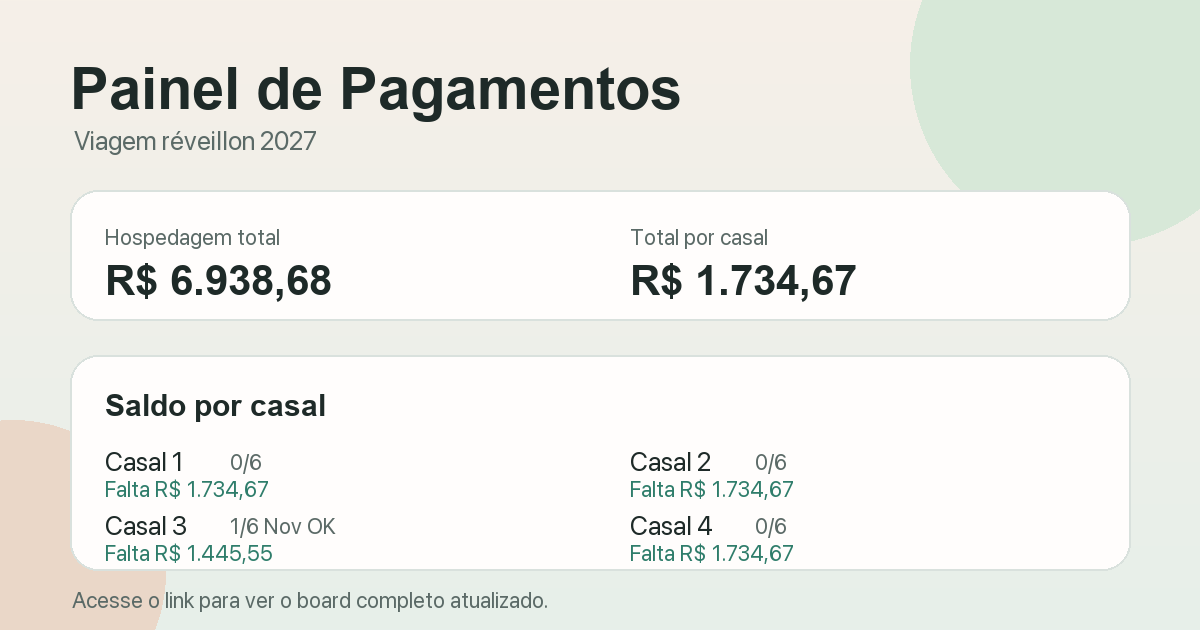
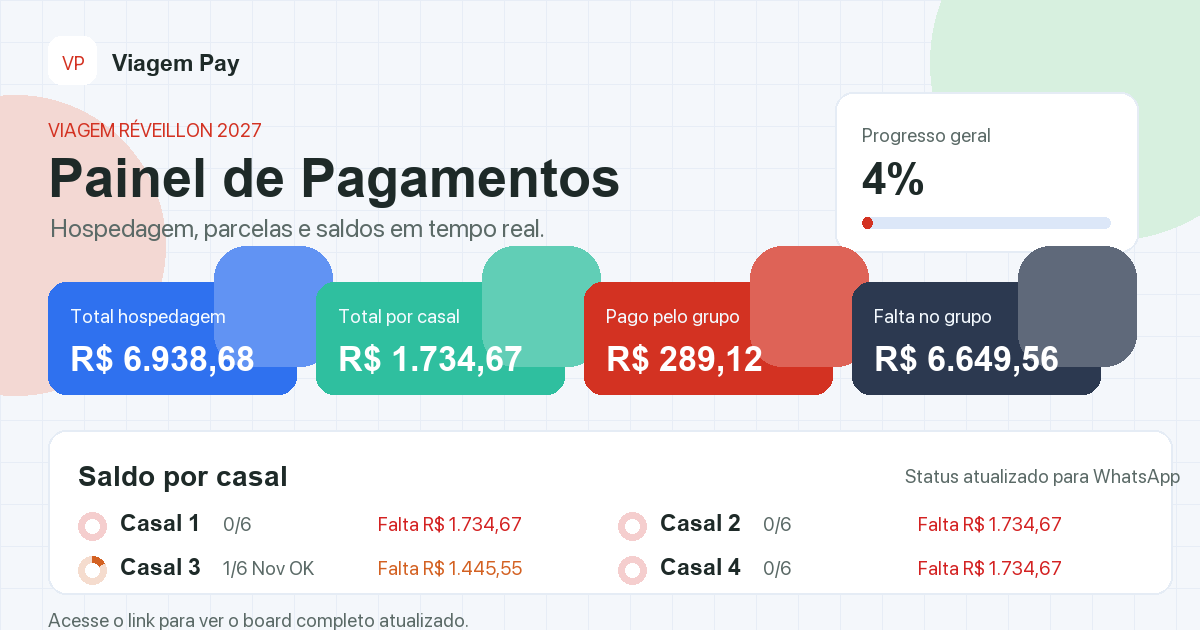
Modernize WhatsApp preview

diff --git a/site/index.html b/site/index.html
@@ -9,7 +9,7 @@
     <meta property="og:url" content="https://nogueirathiago.github.io/viagem-pagamentos/">
     <meta property="og:title" content="Painel de Pagamentos da Viagem">
     <meta property="og:description" content="Status atualizado das parcelas e saldo por casal.">
-    <meta property="og:image" content="https://nogueirathiago.github.io/viagem-pagamentos/preview.png">
+    <meta property="og:image" content="https://nogueirathiago.github.io/viagem-pagamentos/preview.png?v=20260510-modern">
     <meta property="og:image:width" content="1200">
     <meta property="og:image:height" content="630">
     <meta name="twitter:card" content="summary_large_image">

diff --git a/generate_panel.py b/generate_panel.py
@@ -33,6 +33,10 @@ ACCENT = "#2F7D6B"
 ACCENT_SOFT = "#DCEFEA"
 WARN = "#A86D3A"
 DIVIDER = "#D9E1DD"
+PREVIEW_BLUE = "#2F71EF"
+PREVIEW_MINT = "#2FBF9F"
+PREVIEW_DARK = "#2C3950"
+PREVIEW_RED = "#D93A35"
 
 DATE_FMT = "%d/%m/%Y"
 
@@ -252,6 +256,50 @@ def draw_progress_bar(draw: ImageDraw.ImageDraw, x: int, y: int, width: int, pro
         rounded_box(draw, (x, y, x + fill_width, y + 18), ACCENT, radius=9)
 
 
+def progress_color(progress: float) -> str:
+    progress = max(0.0, min(1.0, progress))
+    hue = progress * 128
+    chroma = 0.72
+    light = 0.48
+    return hsl_to_hex(hue, chroma, light)
+
+
+def hsl_to_hex(hue: float, saturation: float, lightness: float) -> str:
+    chroma = (1 - abs(2 * lightness - 1)) * saturation
+    x = chroma * (1 - abs((hue / 60) % 2 - 1))
+    if 0 <= hue < 60:
+        red, green, blue = chroma, x, 0
+    elif 60 <= hue < 120:
+        red, green, blue = x, chroma, 0
+    else:
+        red, green, blue = 0, chroma, x
+    m = lightness - chroma / 2
+    rgb = tuple(round((channel + m) * 255) for channel in (red, green, blue))
+    return "#" + "".join(f"{channel:02X}" for channel in rgb)
+
+
+def mix_hex(color: str, white_ratio: float) -> str:
+    rgb = tuple(int(color[i:i + 2], 16) for i in (1, 3, 5))
+    mixed = tuple(round(channel + (255 - channel) * white_ratio) for channel in rgb)
+    return "#" + "".join(f"{channel:02X}" for channel in mixed)
+
+
+def draw_preview_card(
+    draw: ImageDraw.ImageDraw,
+    xy: tuple[int, int, int, int],
+    label: str,
+    value: str,
+    color: str,
+    label_font: ImageFont.FreeTypeFont,
+    value_font: ImageFont.FreeTypeFont,
+) -> None:
+    rounded_box(draw, xy, color, radius=18)
+    x1, y1, x2, _ = xy
+    draw.rounded_rectangle((x2 - 82, y1 - 36, x2 + 36, y1 + 84), radius=32, fill=mix_hex(color, 0.24))
+    draw.text((x1 + 22, y1 + 22), label, font=label_font, fill="#F4FAFF")
+    draw.text((x1 + 22, y1 + 58), value, font=value_font, fill="#FFFFFF")
+
+
 def render_image(data: dict, couples: list[Couple], total_amount: Decimal) -> None:
     OUTPUT_DIR.mkdir(parents=True, exist_ok=True)
     image = create_gradient_background(CANVAS_WIDTH, CANVAS_HEIGHT)
@@ -347,42 +395,74 @@ def render_image(data: dict, couples: list[Couple], total_amount: Decimal) -> No
 
 def render_social_preview(data: dict, couples: list[Couple], total_amount: Decimal) -> None:
     SITE_DIR.mkdir(parents=True, exist_ok=True)
-    image = create_gradient_background(PREVIEW_WIDTH, PREVIEW_HEIGHT)
+    image = Image.new("RGB", (PREVIEW_WIDTH, PREVIEW_HEIGHT), "#F4F7FB")
     draw = ImageDraw.Draw(image)
 
-    title_font = load_font(58, bold=True)
-    section_font = load_font(30, bold=True)
-    body_font = load_font(26)
-    small_font = load_font(22)
-    amount_font = load_font(42, bold=True)
-
-    draw.ellipse((910, -115, 1270, 245), fill="#D7E8D8")
-    draw.ellipse((-140, 420, 165, 725), fill="#EAD7C8")
-
-    draw.text((70, 56), "Painel de Pagamentos", font=title_font, fill=TEXT_DARK)
-    draw.text((74, 124), data["group_name"], font=body_font, fill=TEXT_MUTED)
-
-    rounded_box(draw, (70, 190, 1130, 320), CARD_BG, radius=28, outline=DIVIDER)
-    draw.text((105, 223), "Hospedagem total", font=small_font, fill=TEXT_MUTED)
-    draw.text((105, 256), brl(total_amount), font=amount_font, fill=TEXT_DARK)
-    draw.text((630, 223), "Total por casal", font=small_font, fill=TEXT_MUTED)
-    draw.text((630, 256), brl(couple_total_amount(data["payment_rule"]["months"])), font=amount_font, fill=TEXT_DARK)
-
-    rounded_box(draw, (70, 355, 1130, 570), CARD_BG, radius=28, outline=DIVIDER)
-    draw.text((105, 388), "Saldo por casal", font=section_font, fill=TEXT_DARK)
     months = data["payment_rule"]["months"]
-    left_x = 105
-    right_x = 630
-    row_y = 445
+    group_paid = sum(couple_paid_amount(couple, months) for couple in couples)
+    group_balance = total_amount - group_paid
+    paid_installments = sum(total_paid(member) for couple in couples for member in couple.members)
+    total_installments = len(couples) * 2 * data["installments_total"]
+    overall_progress = paid_installments / total_installments
+    overall_color = progress_color(overall_progress)
+
+    title_font = load_font(54, bold=True)
+    subtitle_font = load_font(25)
+    section_font = load_font(28, bold=True)
+    body_font = load_font(23, bold=True)
+    small_font = load_font(19)
+    amount_font = load_font(34, bold=True)
+    percent_font = load_font(44, bold=True)
+
+    for x in range(0, PREVIEW_WIDTH, 42):
+        draw.line((x, 0, x, PREVIEW_HEIGHT), fill="#E7EDF6", width=1)
+    for y in range(0, PREVIEW_HEIGHT, 42):
+        draw.line((0, y, PREVIEW_WIDTH, y), fill="#E7EDF6", width=1)
+
+    draw.ellipse((-135, 95, 165, 395), fill="#F3D8D3")
+    draw.ellipse((930, -115, 1285, 240), fill="#D7F0DF")
+
+    rounded_box(draw, (48, 36, 96, 84), "#FFFFFF", radius=13)
+    draw.text((62, 51), "VP", font=small_font, fill=overall_color)
+    draw.text((112, 50), "Viagem Pay", font=body_font, fill=TEXT_DARK)
+
+    draw.text((48, 118), data["group_name"].upper(), font=small_font, fill=overall_color)
+    draw.text((48, 148), "Painel de Pagamentos", font=title_font, fill=TEXT_DARK)
+    draw.text((50, 212), "Hospedagem, parcelas e saldos em tempo real.", font=subtitle_font, fill=TEXT_MUTED)
+
+    rounded_box(draw, (835, 92, 1138, 252), "#FFFFFF", radius=18, outline="#E5ECF5")
+    draw.text((862, 123), "Progresso geral", font=small_font, fill=TEXT_MUTED)
+    draw.text((862, 154), f"{round(overall_progress * 100)}%", font=percent_font, fill=TEXT_DARK)
+    rounded_box(draw, (862, 217, 1110, 228), "#DCE7F8", radius=6)
+    rounded_box(draw, (862, 217, 862 + max(8, int(248 * overall_progress)), 228), overall_color, radius=6)
+
+    card_y = 282
+    draw_preview_card(draw, (48, card_y, 296, card_y + 112), "Total hospedagem", brl(total_amount), PREVIEW_BLUE, small_font, amount_font)
+    draw_preview_card(draw, (316, card_y, 564, card_y + 112), "Total por casal", brl(couple_total_amount(months)), PREVIEW_MINT, small_font, amount_font)
+    draw_preview_card(draw, (584, card_y, 832, card_y + 112), "Pago pelo grupo", brl(group_paid), overall_color, small_font, amount_font)
+    draw_preview_card(draw, (852, card_y, 1100, card_y + 112), "Falta no grupo", brl(group_balance), PREVIEW_DARK, small_font, amount_font)
+
+    rounded_box(draw, (48, 430, 1172, 594), "#FFFFFF", radius=18, outline="#E5ECF5")
+    draw.text((78, 460), "Saldo por casal", font=section_font, fill=TEXT_DARK)
+    draw.text((905, 464), "Status atualizado para WhatsApp", font=small_font, fill=TEXT_MUTED)
+
+    left_x = 78
+    right_x = 618
+    row_y = 512
     for index, couple in enumerate(couples):
         x = left_x if index % 2 == 0 else right_x
-        y = row_y + (index // 2) * 64
+        y = row_y + (index // 2) * 44
+        ratio = float(average_progress(couple) / Decimal(data["installments_total"]))
+        color = progress_color(ratio)
         progress = format_couple_progress(couple, data["installments_total"])
-        draw.text((x, y), couple.name, font=body_font, fill=TEXT_DARK)
-        draw.text((x + 125, y + 3), progress, font=small_font, fill=TEXT_MUTED)
-        draw.text((x, y + 30), f"Falta {brl(couple_balance(couple, months))}", font=small_font, fill=ACCENT)
+        draw.ellipse((x, y, x + 28, y + 28), fill=mix_hex(color, 0.78))
+        draw.pieslice((x, y, x + 28, y + 28), start=-90, end=-90 + int(360 * ratio), fill=color)
+        draw.ellipse((x + 7, y + 7, x + 21, y + 21), fill="#FFFFFF")
+        draw.text((x + 42, y - 2), couple.name, font=body_font, fill=TEXT_DARK)
+        draw.text((x + 145, y), progress, font=small_font, fill=TEXT_MUTED)
+        draw.text((x + 300, y), f"Falta {brl(couple_balance(couple, months))}", font=small_font, fill=color)
 
-    draw.text((72, 586), "Acesse o link para ver o board completo atualizado.", font=small_font, fill=TEXT_MUTED)
+    draw.text((48, 608), "Acesse o link para ver o board completo atualizado.", font=small_font, fill=TEXT_MUTED)
     image.save(SITE_PREVIEW_PATH, quality=95)
 
 
